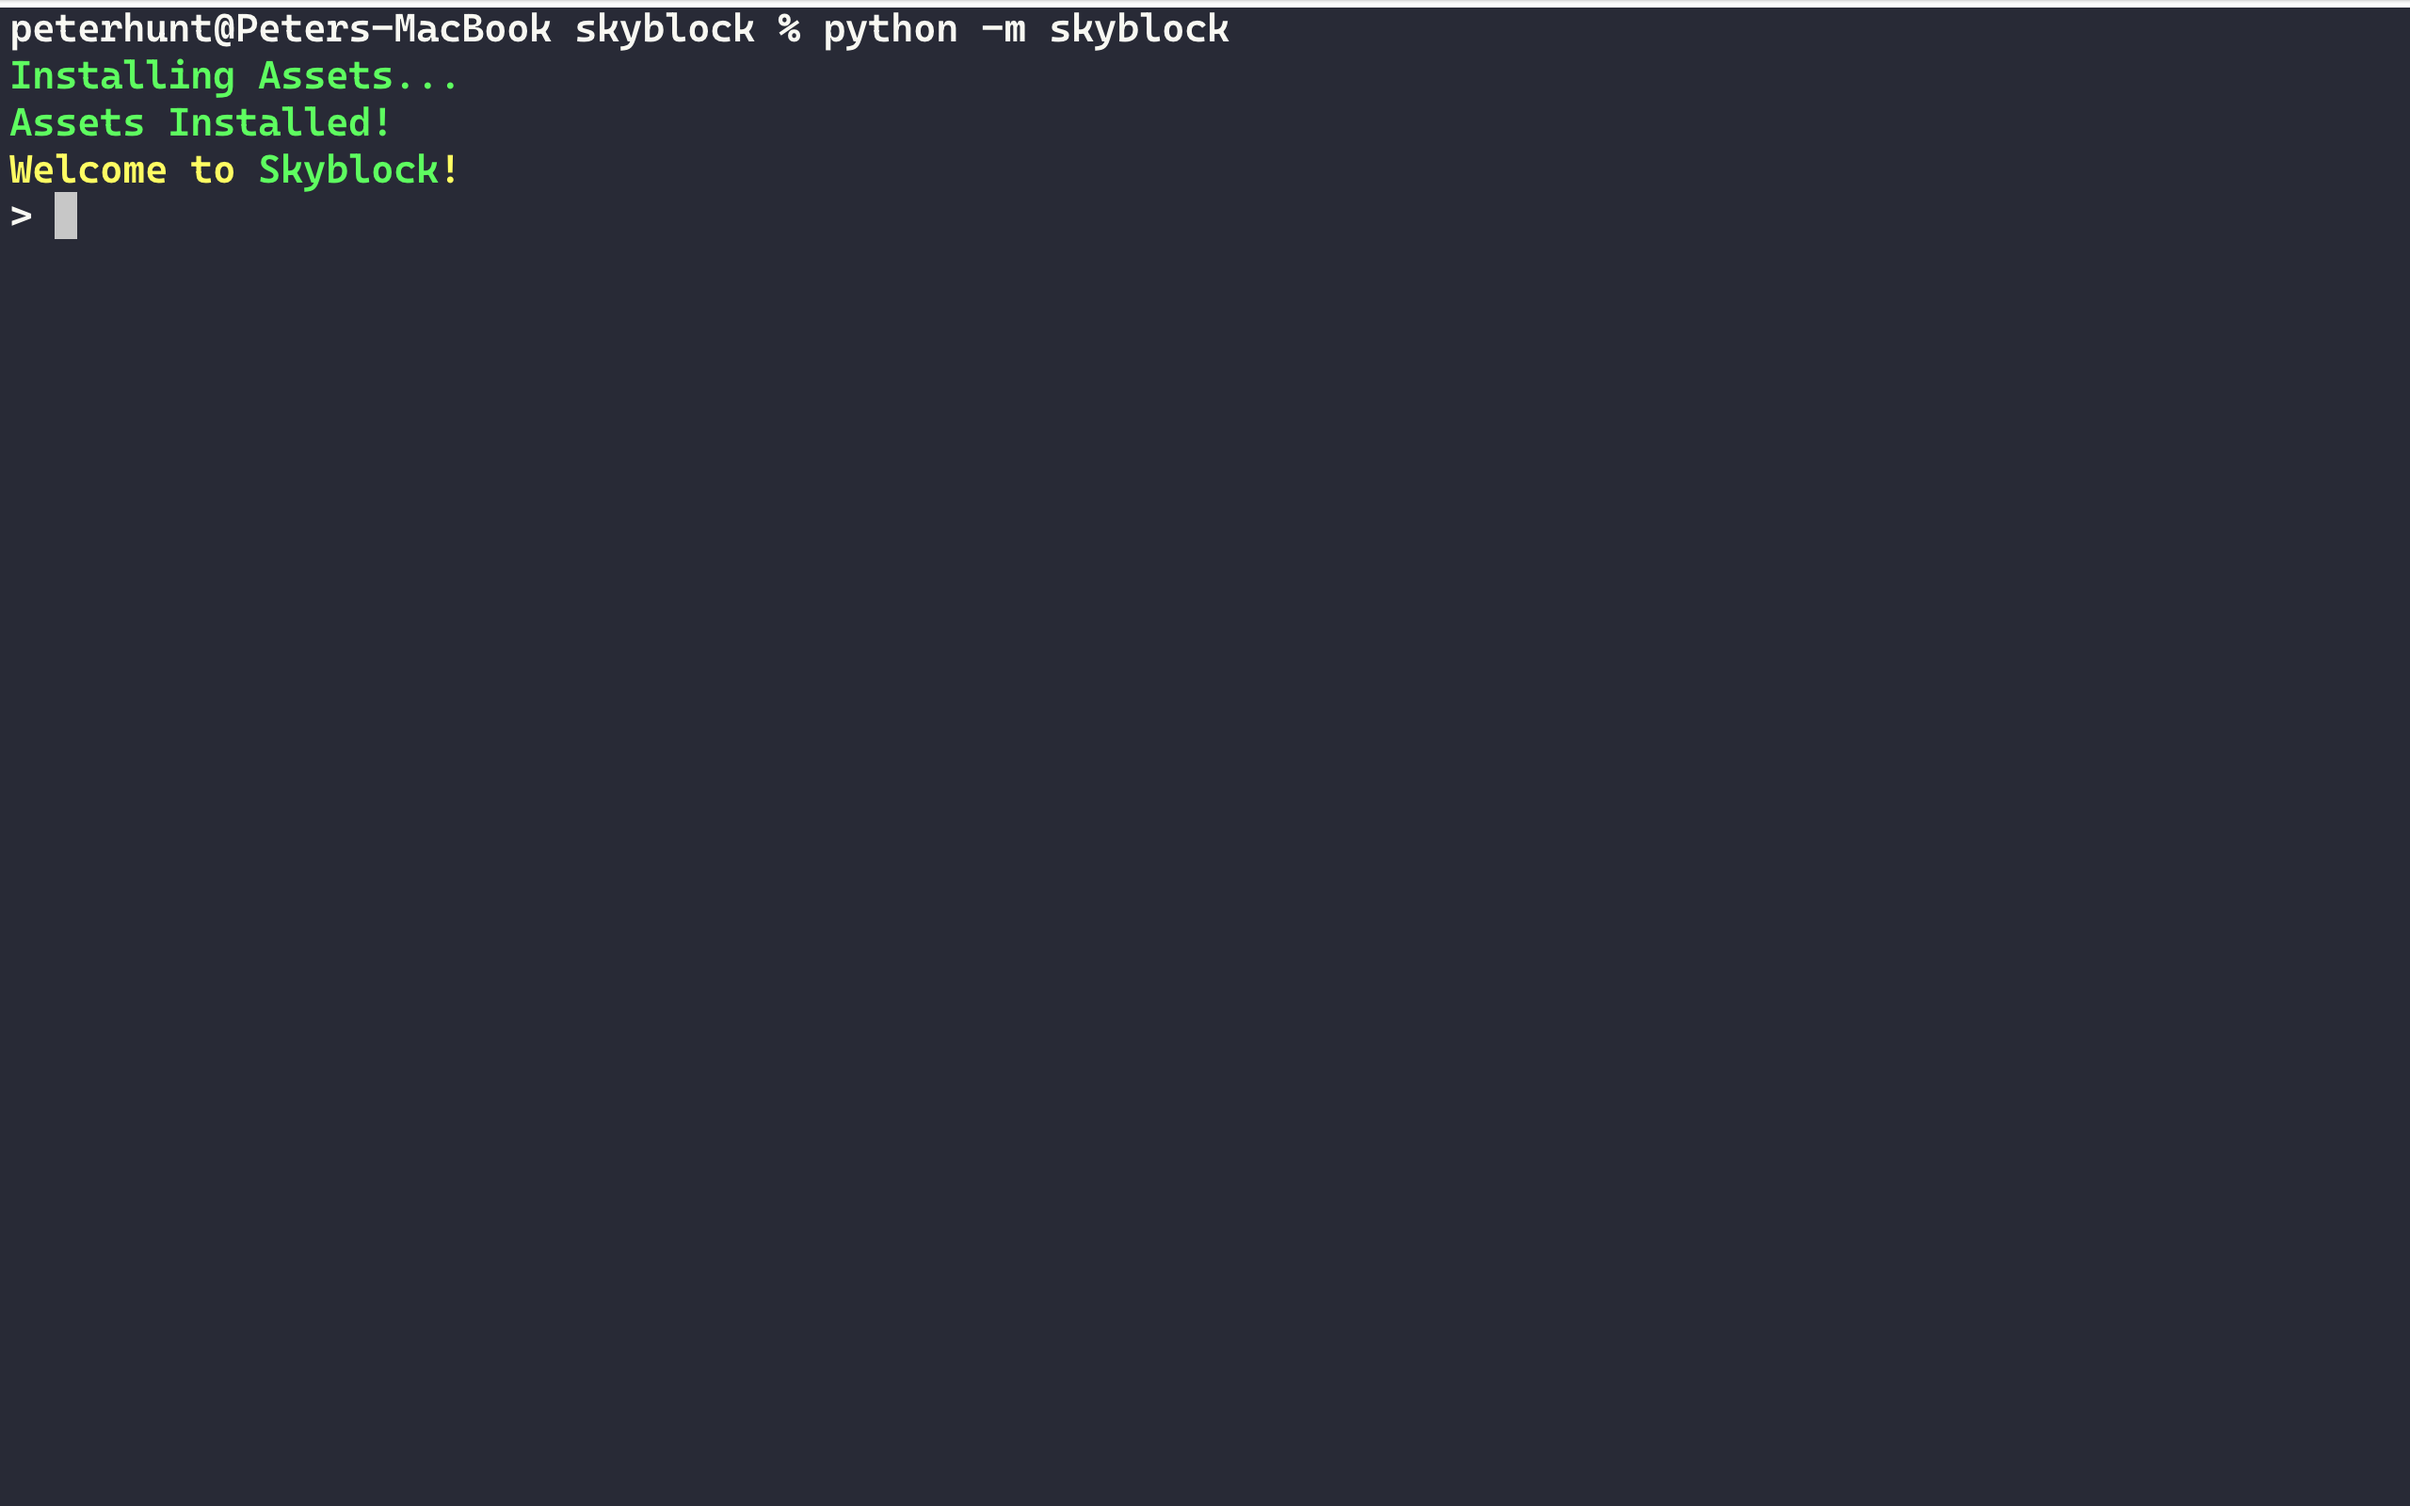
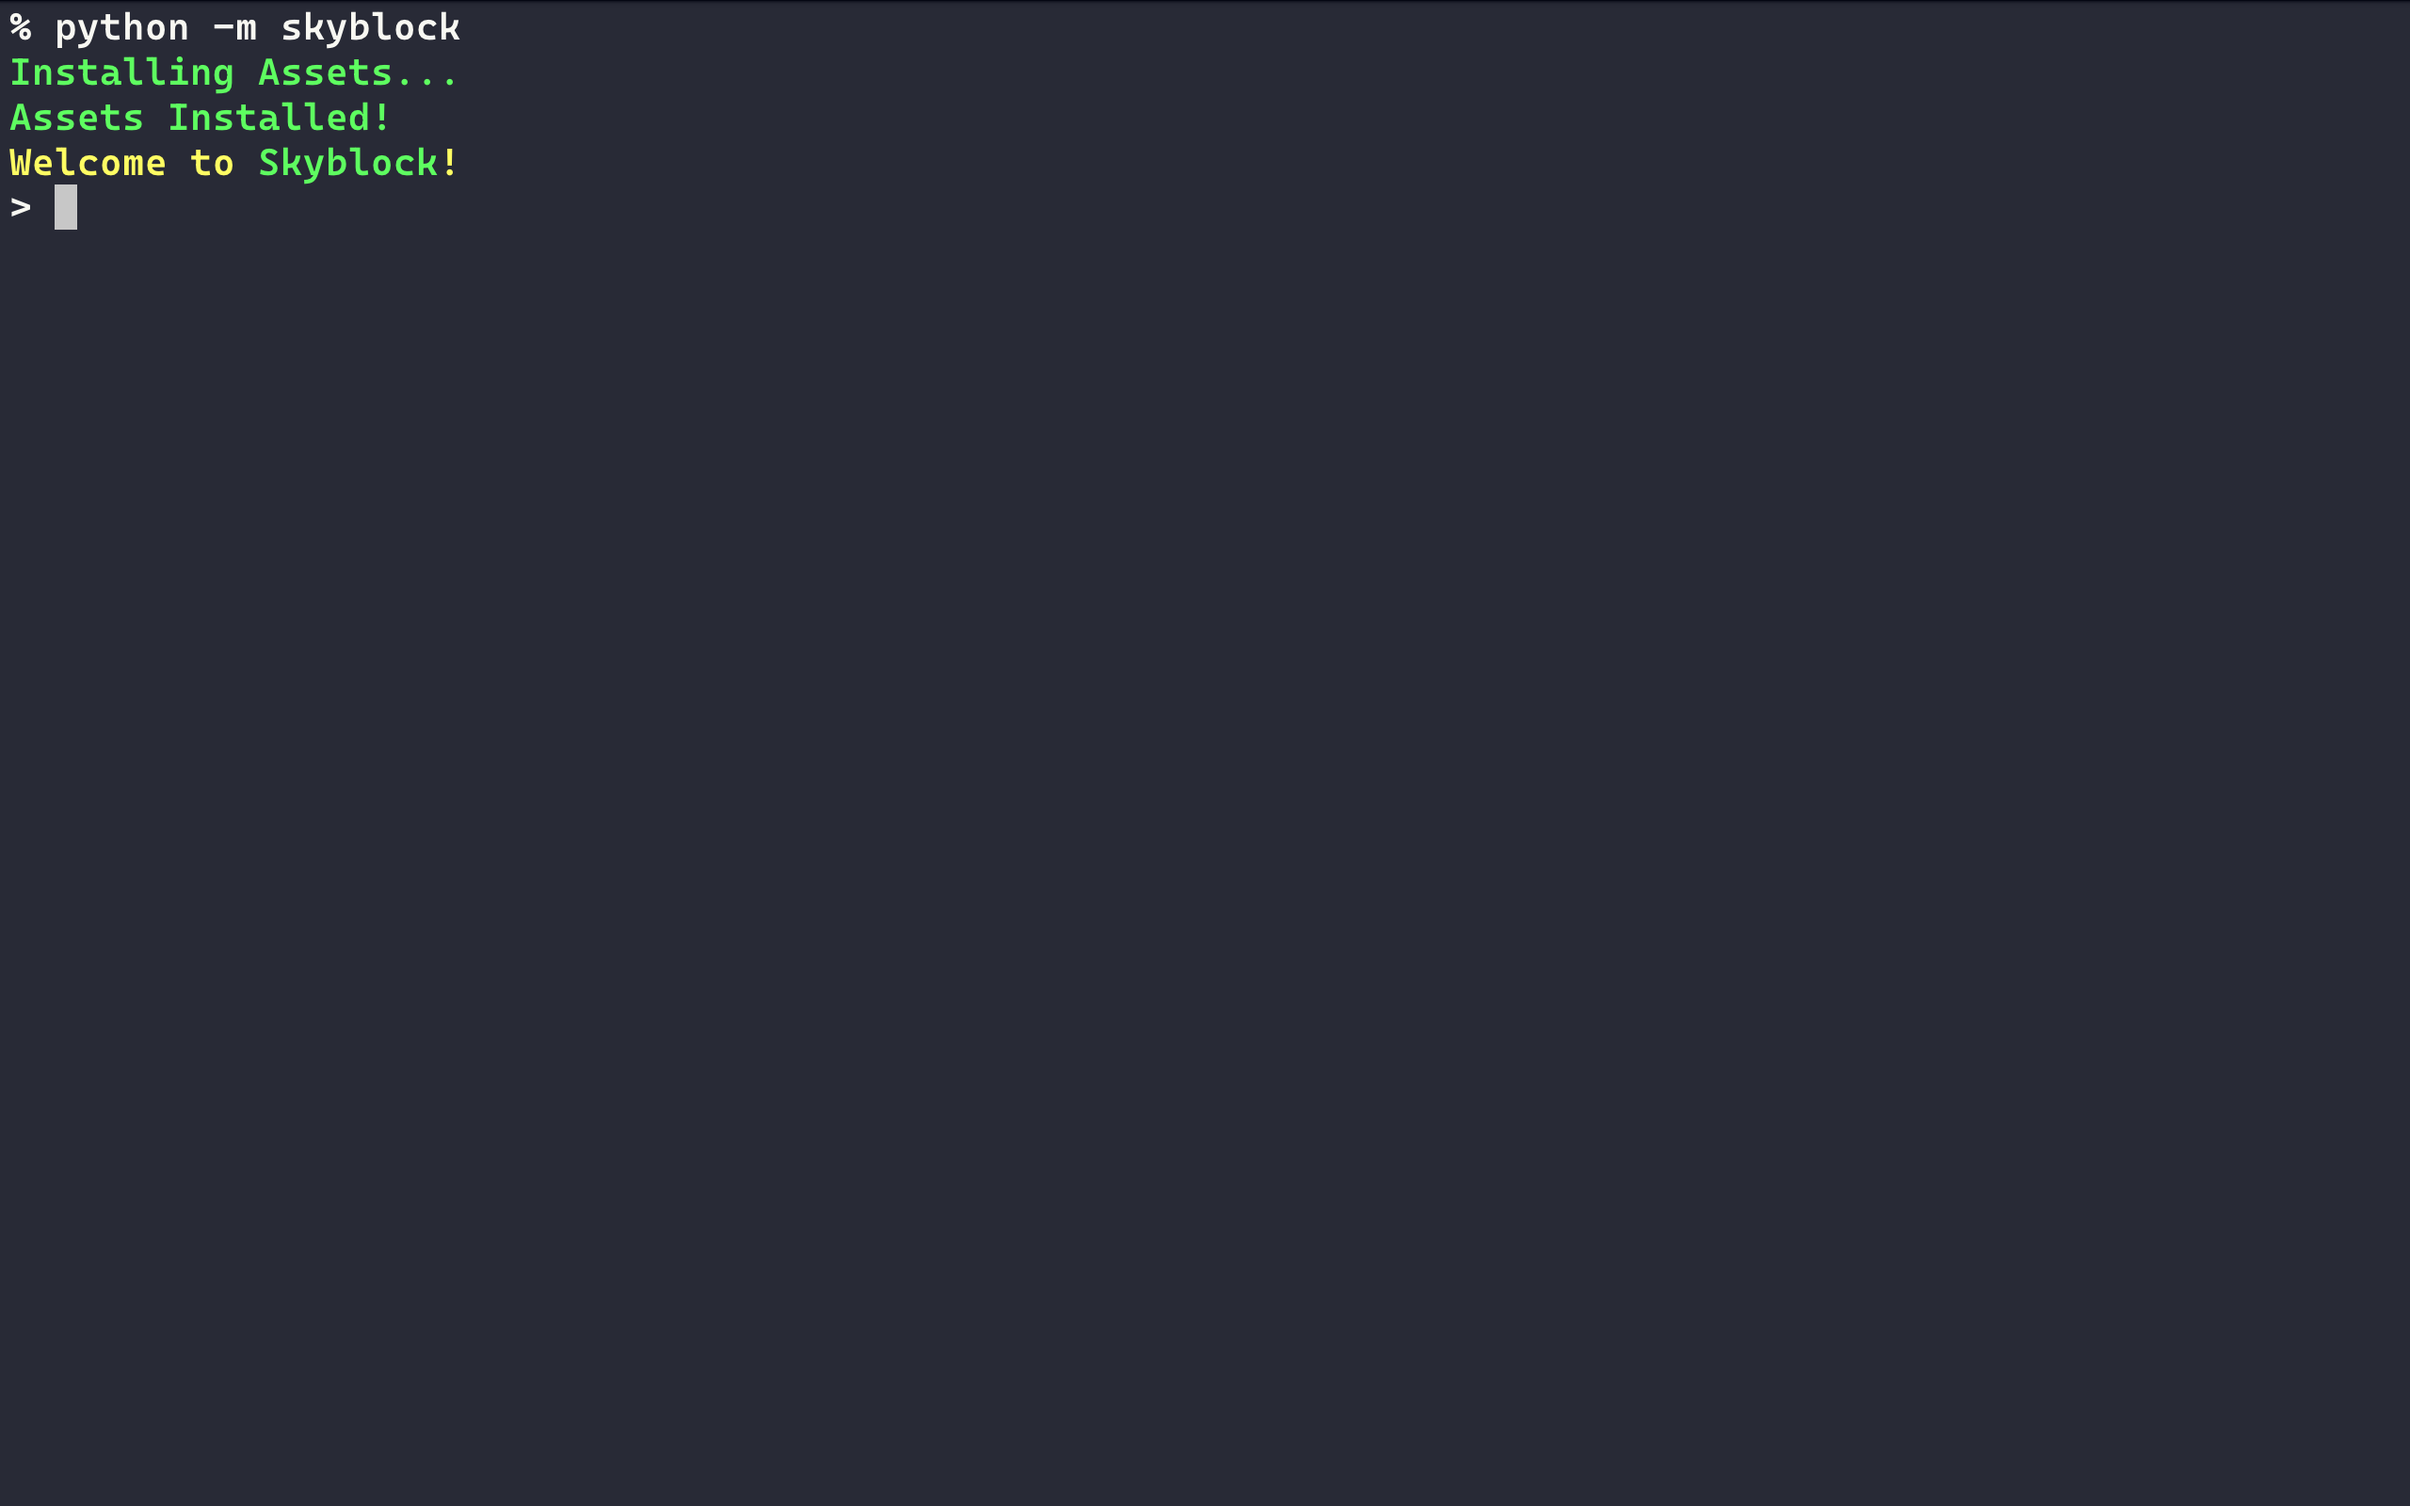
Added more and updated screenshots

Changed region(s): [[0.0, 0.0, 1.0, 0.1562]]

diff --git a/skyblock/__main__.py b/skyblock/__main__.py
@@ -1,4 +1,5 @@
 from sys import version_info
+from subprocess import run
 
 
 __all__ = ['skyblock_main']
@@ -15,4 +16,6 @@ def skyblock_main():
 
 
 if __name__ == '__main__':
+    run(['clear'])
+    print('% python -m skyblock')
     skyblock_main()

diff --git a/README.md b/README.md
@@ -140,11 +140,14 @@ To check command usage, type `help` for command documentation.
 
 # Screenshots
 
-Here's some footage on the gameplay: (Outdated)
+Here's some footage on the gameplay:
 
 ![](screenshots/usage-1.png)
 ![](screenshots/usage-2.png)
 ![](screenshots/usage-3.png)
+![](screenshots/usage-4.png)
+![](screenshots/usage-5.png)
+![](screenshots/usage-6.png)
 
 # How to Contribute
 
